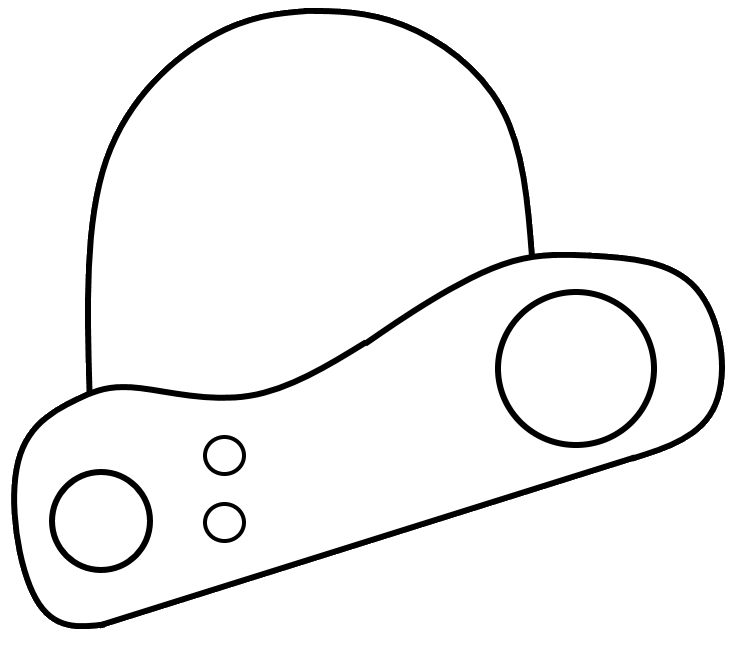
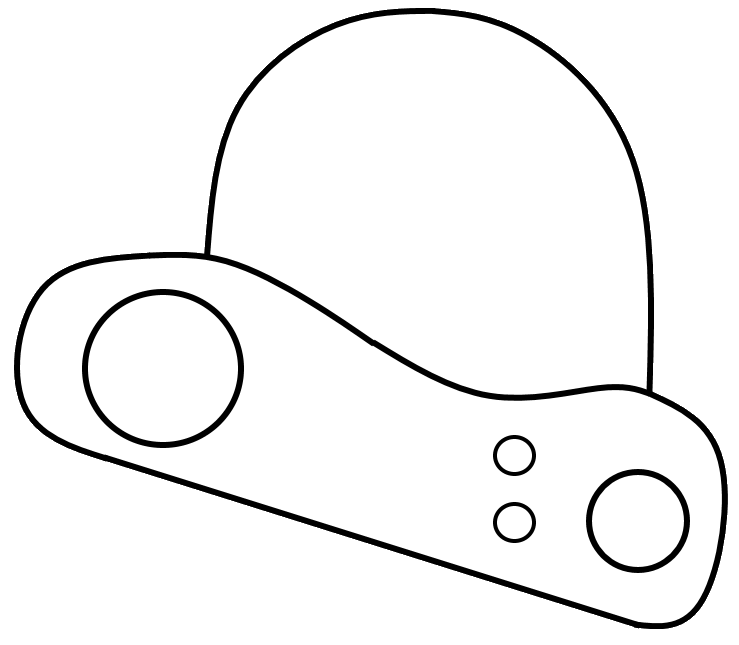
Color the tooth when vibrating
This change addresses the need by:

The texture is different while the oscillator of the tooth is vibrating

diff --git a/app/js/comb/tooth.js b/app/js/comb/tooth.js
@@ -13,6 +13,7 @@ class Tooth {
     this.skeleton = new ToothSkeleton(options.tooth.points, pointLength);
     this.strip = new mesh.Rope(loader.resources.tooth.texture, this.skeleton.points);
     this.oscillator = new Oscillator(options);
+    this.oscillator.onVibrationEnd(() => this.onVibrationEnd());
 
     if (options.tooth.clickable) {
       this.activateClick();
@@ -67,6 +68,11 @@ class Tooth {
 
   triggerVibration() {
     this.oscillator.triggerVibration();
+    this.strip.texture = loader.resources.toothActive.texture;
+  }
+
+  onVibrationEnd() {
+    this.strip.texture = loader.resources.tooth.texture;
   }
 
   render() {

diff --git a/app/js/comb/oscillator.js b/app/js/comb/oscillator.js
@@ -11,6 +11,10 @@ class Oscillator {
     this.timeOfVibration = 0;
   }
 
+  onVibrationEnd(cb) {
+    this.vibrationEndCallback = cb;
+  }
+
   run(time) {
     if (this.vibrating) {
       this.timeOfVibration += time;
@@ -21,6 +25,10 @@ class Oscillator {
       this.vibrating = false;
       this.timeOfVibration = 0;
       this.position = 0;
+
+      if (this.vibrationEndCallback) {
+        this.vibrationEndCallback();
+      }
     }
 
     return this.position;

diff --git a/app/js/default-options.js b/app/js/default-options.js
@@ -14,12 +14,13 @@ export default {
     clickable: true,
     vibrationDecay: 600,
     image: 'assets/images/dummy-tooth-rotate.png',
+    imageActive: 'assets/images/dummy-tooth-rotate-active.png',
   },
   oscillator: {
     gamma: 0.05,
-    omega1: 5,
-    amplitude: 5,
-    timeOfVibrationEnd: 100,
+    omega1: 2,
+    amplitude: 10,
+    timeOfVibrationEnd: 50,
   },
   cylinder: {
     scale: 0.8,

diff --git a/app/js/assets-loader.js b/app/js/assets-loader.js
@@ -4,6 +4,7 @@ class AssetsLoader {
   static load(options, cb) {
     loader.add('comb', options.comb.image);
     loader.add('tooth', options.tooth.image);
+    loader.add('toothActive', options.tooth.imageActive);
     loader.add('cylinder', options.cylinder.image);
     loader.add('pin', options.pin.image);
     loader.load(cb);

diff --git a/app/js/box/index.js b/app/js/box/index.js
@@ -30,7 +30,7 @@ class Box {
     this.container = new Container();
     this.comb.addToContainer(this.container);
 
-    this.sequencer.play();
+    // this.sequencer.play();
   }
 
   addToContainer(container) {
